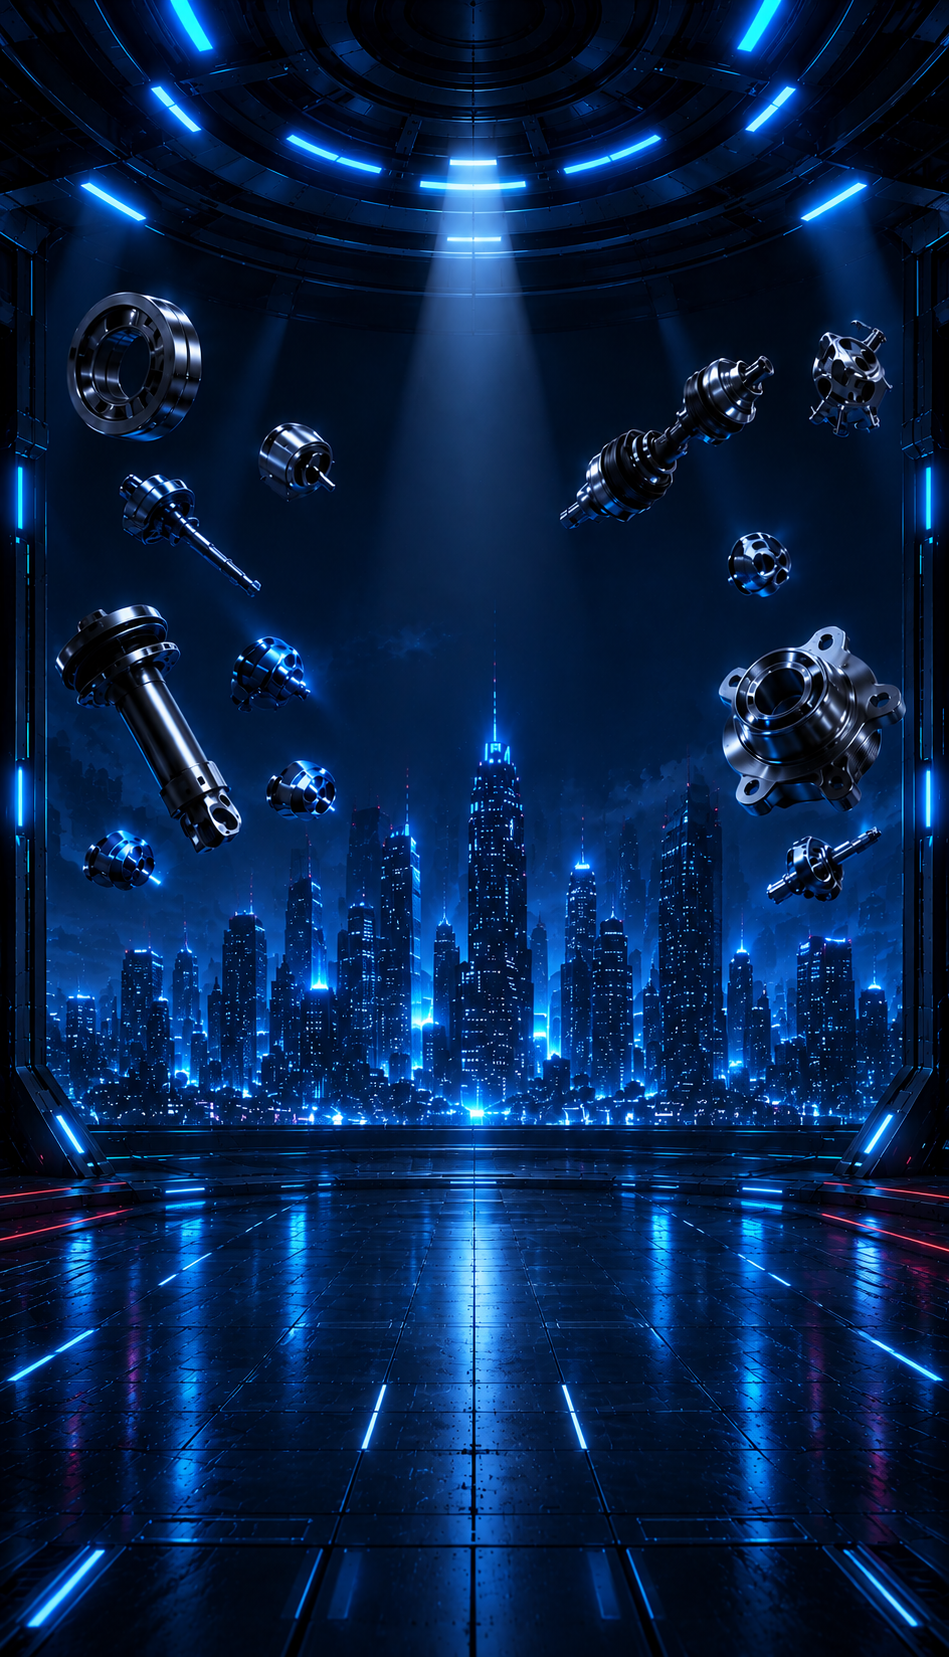
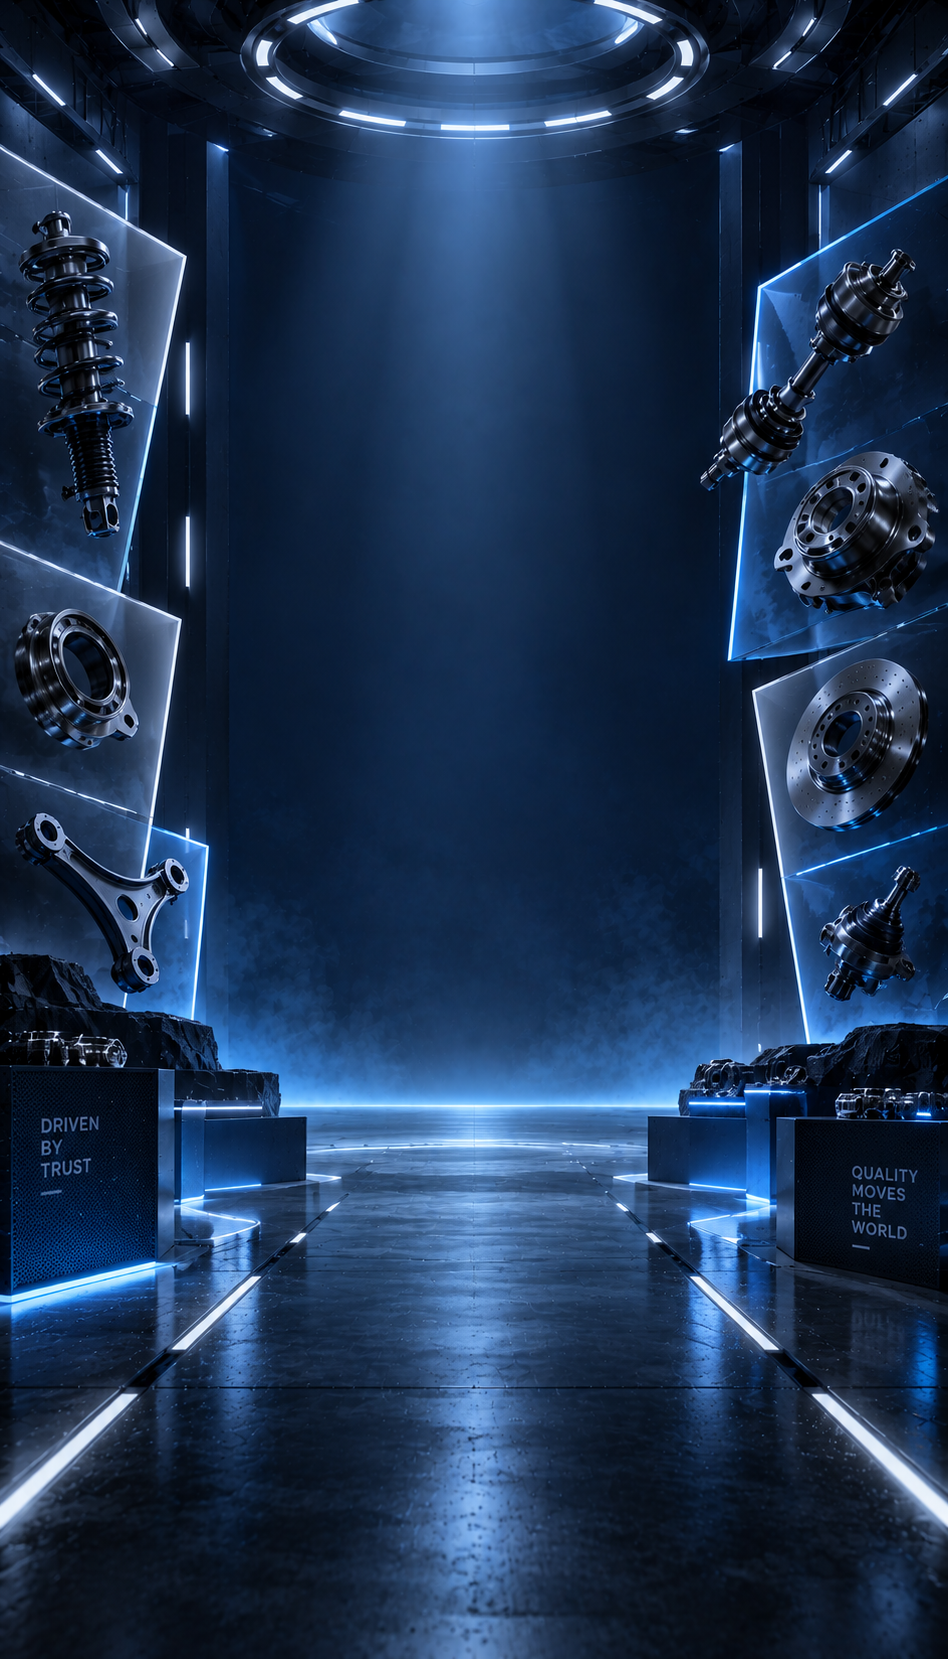
Update showcase

diff --git a/src/components/StandbyScreen.vue b/src/components/StandbyScreen.vue
@@ -801,54 +801,44 @@ function speedLineStyle(i) {
 
 @media (orientation: portrait) {
   .topbar {
-    height: 64px;
-    padding: 0 14px;
+    height: 58px;
+    padding: 0 58px 0 12px;
   }
-  .topbar-left { gap: 12px; }
-  .trad-logo-top { height: 34px; }
+  .topbar-left { gap: 0; }
+  .trad-logo-top { height: 31px; }
   .topbar-text-group, .topbar-stat, .topbar-div { display: none; }
-  .topbar-right { display: none; }
+  .topbar-right { display: none !important; }
 
   .content {
     width: 100%;
-    padding: 0 14px;
-    gap: 7px;
-    transform: translateY(-1vh);
+    padding: 0 12px;
+    gap: 5px;
+    transform: translateY(-.5vh);
   }
-  .logo-hero { gap: 4px; }
-  .trad-logo-hero { width: min(210px, 54vw); height: auto; }
+  .logo-hero { gap: 3px; }
+  .trad-logo-hero { width: min(176px, 48vw); height: auto; }
   .logo-rule { gap: 6px; max-width: 100%; }
   .logo-rule-line { width: clamp(20px, 8vw, 44px); }
-  .logo-rule-text { font-size: 7px; letter-spacing: .15em; }
-  .eyebrow { font-size: 8px; letter-spacing: .12em; gap: 6px; }
-  .eyebrow-line { width: 18px; }
-  .line-1, .line-2 { font-size: clamp(36px, 11.5vw, 64px); }
+  .logo-rule-text { font-size: 6px; letter-spacing: .12em; }
+  .eyebrow { font-size: 7px; letter-spacing: .1em; gap: 5px; }
+  .eyebrow-line { width: 15px; }
+  .headline { line-height: .82; }
+  .line-1, .line-2 { font-size: clamp(31px, 10.5vw, 52px); }
   .subtext {
-    max-width: 280px;
-    font-size: 8px;
+    max-width: 270px;
+    font-size: 7px;
     line-height: 1.35;
   }
-  .pills { max-width: 320px; gap: 4px; }
-  .pill { padding: 5px 7px; font-size: 7px; letter-spacing: .06em; }
-  .cta-area { gap: 4px; }
-  .cta-orbit { width: 116px; height: 116px; }
-  .cta-btn { width: 72px; height: 72px; gap: 3px; }
-  .play-icon { width: 23px; height: 23px; }
+  .pills { max-width: 300px; gap: 3px; }
+  .pill { padding: 4px 6px; font-size: 6px; letter-spacing: .04em; }
+  .cta-area { gap: 2px; }
+  .cta-orbit { width: 98px; height: 98px; }
+  .cta-btn { width: 62px; height: 62px; gap: 2px; }
+  .play-icon { width: 20px; height: 20px; }
   .cta-label { font-size: 6px; }
   .cta-hint { font-size: 6px; letter-spacing: .15em; }
 
-  .side-panel {
-    right: auto;
-    left: 50%;
-    top: auto;
-    bottom: 56px;
-    transform: translateX(-50%);
-    flex-direction: row;
-    gap: 12px;
-    padding: 7px 9px;
-    border-radius: 10px;
-    white-space: nowrap;
-  }
+  .side-panel { display: none; }
   .side-sep { width: 1px; height: 25px; }
   .side-val { font-size: 17px; }
   .side-lbl { font-size: 6px; letter-spacing: .1em; }
@@ -863,8 +853,8 @@ function speedLineStyle(i) {
   .bottom-r { margin-left: auto; }
   .bottom-version { font-size: 7px; }
 
-  .h-accent--top { top: 64px; }
-  .scan-dot--top { top: 62px; }
+  .h-accent--top { top: 58px; }
+  .scan-dot--top { top: 56px; }
   .h-accent--bottom { bottom: 48px; }
   .scan-dot--bottom { bottom: 46px; }
   .hud-tl, .hud-tr { top: 76px; }

diff --git a/src/App.vue b/src/App.vue
@@ -81,7 +81,7 @@ function goToChassis() {
 }
 
 @media (orientation: portrait) {
-  #wrapper { --topbar-h: 64px !important; }
+  #wrapper { --topbar-h: 58px !important; }
 }
 
 .transition-flash {
